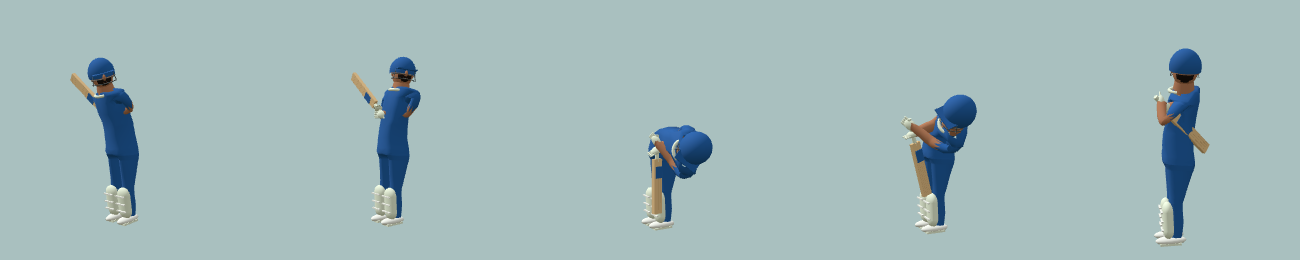
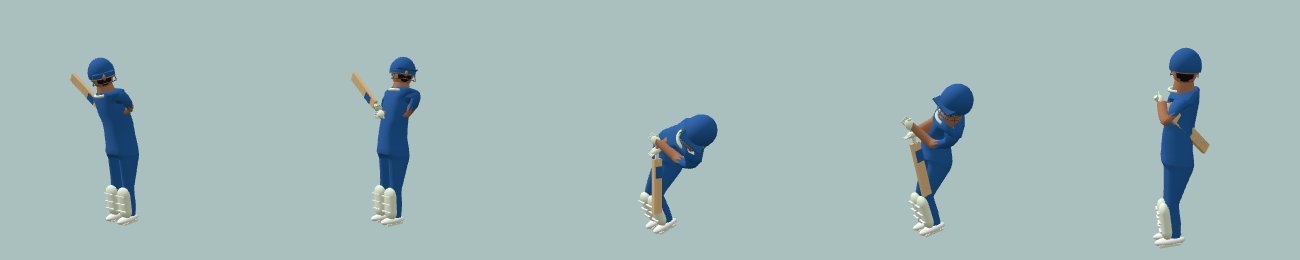
Fix keeper stumpings, ground the striker and verify a complete T20 chase

diff --git a/src/main.js b/src/main.js
@@ -267,7 +267,7 @@ function firstBatting(){return state.firstBatting||home}
 function secondBatting(){return firstBatting()===home?away:home}
 function humanBatting(){return (state.innings===0?firstBatting():secondBatting())===home}
 function setKit(){const recolor=(p,color)=>p.userData.kit.color.setHex(color);[batter,nonStriker].forEach(p=>recolor(p,teams[state.innings===0?firstBatting():secondBatting()].color));[bowler,keeper,...fielders].forEach(p=>recolor(p,teams[state.innings===0?secondBatting():firstBatting()].color))}
-function setPlayerName(p,name,number){if(era.modern){const team=Object.keys(rosterProfiles).find(t=>rosterProfiles[t].some(v=>v.name===name))||home;dressAthlete(p,name,team);}if(!p.userData.nameCanvas)return;let key=`${name}:${number}`;if(p.userData.nameKey===key)return;p.userData.nameKey=key;let c=p.userData.nameCanvas,x=c.getContext('2d');x.clearRect(0,0,c.width,c.height);x.textAlign='center';x.font='bold 58px Arial';x.lineWidth=8;x.strokeStyle='#263326';x.fillStyle='#fff';let text=name.split(' ').slice(-1)[0].toUpperCase();x.strokeText(text,256,68,480);x.fillText(text,256,68,480);x.font='bold 72px Arial';x.strokeText(String(number),256,143);x.fillText(String(number),256,143);p.userData.nameTexture.needsUpdate=true}
+function setPlayerName(p,name,number){p.userData.playerName=name;if(era.modern){const team=Object.keys(rosterProfiles).find(t=>rosterProfiles[t].some(v=>v.name===name))||home;dressAthlete(p,name,team);}if(!p.userData.nameCanvas)return;let key=`${name}:${number}`;if(p.userData.nameKey===key)return;p.userData.nameKey=key;let c=p.userData.nameCanvas,x=c.getContext('2d');x.clearRect(0,0,c.width,c.height);x.textAlign='center';x.font='bold 58px Arial';x.lineWidth=8;x.strokeStyle='#263326';x.fillStyle='#fff';let text=name.split(' ').slice(-1)[0].toUpperCase();x.strokeText(text,256,68,480);x.fillText(text,256,68,480);x.font='bold 72px Arial';x.strokeText(String(number),256,143);x.fillText(String(number),256,143);p.userData.nameTexture.needsUpdate=true}
 function lineup(){let batting=state.innings===0?firstBatting():secondBatting(),bowling=state.innings===0?secondBatting():firstBatting(),over=Math.floor(state.balls[state.innings]/6),order=bowlingOrder(squads[bowling],matchFormat(matchOvers).bowlers),bowlerIndex=order[Math.min(over,matchOvers-1)%order.length].index;return {batting,bowling,bowlerIndex,striker:squads[batting][Math.min(state.striker,10)],partner:squads[batting][Math.min(state.partner,10)],bowler:squads[bowling][bowlerIndex]}}
 function syncPlayers(){let l=lineup();setPlayerName(batter,l.striker,state.striker+1);setPlayerName(nonStriker,l.partner,state.partner+1);setPlayerName(bowler,l.bowler,l.bowlerIndex+1);if(era.modern){batter.position.z=9.8;nonStriker.position.z=-9.75;}batter.position.x=profile(l.striker).bat==='left'?.35:-.35;applyBattingStance(batter,profile(l.striker).bat,true);applyBattingStance(nonStriker,profile(l.partner).bat,false);bowler.userData.bowlHand=profile(l.bowler).bowl;resetBowler();placeNonStriker();legUmpire.position.set(profile(l.striker).bat==='left'?14.5:-14.5,0,8);facePoint(legUmpire,new THREE.Vector3(0,0,9.8));resetKeeper();let keeperPos=keeperIndex(squads[l.bowling]);setPlayerName(keeper,squads[l.bowling][keeperPos],keeperPos+1);let f=squads[l.bowling].slice(0,11).map((name,i)=>({name,i})).filter(v=>v.i!==keeperPos&&v.i!==l.bowlerIndex);fielders.forEach((p,i)=>setPlayerName(p,f[i]?.name||'Fielder',(f[i]?.i??i)+1))}
 function introducePlayers(reason,newName){let l=lineup(),incoming=newName||l.striker;state.phase='intro';state.introUntil=performance.now()+4200;renderUI();let intro=$('#player-intro');let heading=reason==='start'&&state.toss?`${state.toss.result.toUpperCase()} · ${state.toss.userWon?'YOU WIN':'COMPUTER WINS'} THE TOSS`:reason==='start'?'THE OPENING PLAYERS':reason==='innings'?'THE CHASE BEGINS':reason==='wicket'?'NEW BATTER':reason==='both'?'NEW BATTER & BOWLER':'NEW BOWLER';let lines=reason==='bowler'?`<span>COMING ON TO BOWL</span><strong>${l.bowler}</strong><small>${l.bowling} · ${profile(l.bowler).bowl.toUpperCase()}-ARM</small>`:(reason==='wicket'||reason==='both')?`<span>COMING IN TO BAT</span><strong>${incoming}</strong><small>${profile(incoming).bat.toUpperCase()}-HAND BAT · ${reason==='both'?'NEW BOWLER:':'FACING'} ${l.bowler}</small>`:`<span>AT THE CREASE</span><strong>${l.striker} &nbsp; / &nbsp; ${l.partner}</strong><small>${profile(l.striker).bat.toUpperCase()}-HAND BAT · ${l.bowler} · ${profile(l.bowler).bowl.toUpperCase()}-ARM</small>`;intro.innerHTML=`<div class="intro-kicker">${heading}</div>${lines}`;if(era.modern){
@@ -418,7 +418,11 @@ function updateReplay(now){
  f.stumps.forEach((v,i)=>applyPose(wicketParts[i],mix(v,next.stumps[i])));
  if(era.modern)r.cameraView=replayBroadcastView(f.camera,next.camera,blend);
 }
-function resolveDelivery(){let i=state.innings,a=state.anim,batting=i===0?firstBatting():secondBatting(),outcome=a.outcome||0,newBatterName=a.dismissal?squads[batting][Math.min(state.nextBatter,10)]:null;const result=scoreDelivery({runs:outcome,dismissal:a.dismissal,noBall:a.noBall,wide:a.wide,byes:a.bye,legByes:a.legBye,freeHit:a.freeHit});if(era.modern)state.freeHit=nextFreeHit(!!a.freeHit,result);benchmark?.finish(result.legal);const l=lineup();recordDelivery(state.stats[i],l.striker,l.bowler,result);if(result.legal)state.balls[i]++;state.score[i]+=outcome+result.penalty;state.extras[i]+=result.penalty+((result.extra==='WIDE'||result.byes)?outcome:0);
+function resolveDelivery(){let i=state.innings,a=state.anim,batting=i===0?firstBatting():secondBatting(),outcome=a.outcome||0,newBatterName=a.dismissal?squads[batting][Math.min(state.nextBatter,10)]:null;const result=scoreDelivery({runs:outcome,dismissal:a.dismissal,noBall:a.noBall,wide:a.wide,byes:a.bye,legByes:a.legBye,freeHit:a.freeHit});if(era.modern)state.freeHit=nextFreeHit(!!a.freeHit,result);benchmark?.finish(result.legal);const l=lineup();const dismissalInfo=era.modern&&result.dismissal?{
+   batter:a.dismissedPlayer===undefined?l.striker:squads[batting][a.dismissedPlayer],
+   fielder:(a.dismissal==='STUMPED'?keeper:a.fielder)?.userData.playerName
+ }:null;
+ recordDelivery(state.stats[i],l.striker,l.bowler,result,dismissalInfo);if(result.legal)state.balls[i]++;state.score[i]+=outcome+result.penalty;state.extras[i]+=result.penalty+((result.extra==='WIDE'||result.byes)?outcome:0);
  if(outcome%2===1)[state.striker,state.partner]=[state.partner,state.striker];
  if(a.dismissal){state.wickets[i]++;let incoming=state.nextBatter++;if(a.dismissal==='RUN OUT'&&a.dismissedPlayer===state.partner)state.partner=incoming;else state.striker=incoming}
  let overChanged=result.legal&&state.balls[i]%6===0;if(overChanged){[state.striker,state.partner]=[state.partner,state.striker];state.powerUsed=0}state.history.push(a.dismissal||result.extra||outcome);let hadWicket=!!a.dismissal;state.phase='playing';state.anim=null;resetWickets();umpire.userData.arms.forEach(arm=>arm.rotation.set(0,0,0));ball.position.set(1.5,2,-20);resetBowler();resetKeeper();batter.position.set(profile(lineup().striker).bat==='left'?.7:-.7,0,9.8);placeNonStriker();resetFielders();state.autoAt=performance.now()+3200;setCrowdMood('between');
@@ -426,7 +430,7 @@ function resolveDelivery(){let i=state.innings,a=state.anim,batting=i===0?firstB
 function inningsCard(index){
  const batting=index===0?firstBatting():secondBatting(),bowling=index===0?secondBatting():firstBatting(),innings=state.stats[index];
  const extraDetail=era.modern&&innings.extras?` (Wd ${innings.extras.wides}, Nb ${innings.extras.noBalls}, B ${innings.extras.byes}, Lb ${innings.extras.legByes})`:'';
- const batters=Object.entries(innings.batters).map(([name,b])=>`<tr><th scope="row">${name}</th><td>${b.runs}</td><td>${b.balls}</td><td>${strikeRate(b)}</td></tr>`).join('')||'<tr><td colspan="4">No balls faced</td></tr>';
+ const batters=Object.entries(innings.batters).map(([name,b])=>`<tr><th scope="row">${name}${era.modern?`<small class="dismissal-note">${b.dismissal||'not out'}</small>`:''}</th><td>${b.runs}</td><td>${b.balls}</td><td>${strikeRate(b)}</td></tr>`).join('')||'<tr><td colspan="4">No balls faced</td></tr>';
  const bowlers=Object.entries(innings.bowlers).map(([name,b])=>`<tr><th scope="row">${name}</th><td>${overs(b.balls)}</td><td>${b.runs}</td><td>${b.wickets}</td><td>${economyRate(b)}</td></tr>`).join('')||'<tr><td colspan="5">No deliveries</td></tr>';
  return `<section class="innings-card"><div class="innings-card-heading"><strong>${batting} ${state.score[index]}/${state.wickets[index]}</strong><span>${overs(state.balls[index])} overs · ${state.extras[index]} extras${extraDetail}</span></div><div class="scorecard-grid"><div><h3>${batting} batting</h3><table><thead><tr><th>BATTER</th><th>R</th><th>B</th><th>SR</th></tr></thead><tbody>${batters}</tbody></table></div><div><h3>${bowling} bowling</h3><table><thead><tr><th>BOWLER</th><th>O</th><th>R</th><th>W</th><th>ECO</th></tr></thead><tbody>${bowlers}</tbody></table></div></div></section>`;
 }
@@ -533,16 +537,24 @@ function animate(now){
   if(era.modern&&a.flight&&a.phase!=='field')modernFielding.finishActions(dt,ball.position,[a.fielder,a.receiver]);
   let swingAt=humanBatting()?a.swing:a.impact-(era.modern?.3:.22);
   const preparationAt=a.preparationAt??swingAt;
-  if(era.modern&&swingAt!==null&&t>=preparationAt&&(t-swingAt)<.75&&(!a.runActive||a.simTime-a.flightSimTime<.25)){
+  if(era.modern&&!a.regainingGround&&swingAt!==null&&t>=preparationAt&&(t-swingAt)<.75&&(!a.runActive||a.simTime-a.flightSimTime<.25)){
     const preparation=Math.min(.2,Math.max(0,swingAt-preparationAt)/.7);
     let phase=t<swingAt?(t-preparationAt)/.7:Math.max(preparation,(t-swingAt)/.7);
     if(a.struckAt!==undefined)phase=.43+(t-a.struckAt)/.7;
     if(phase>0)benchmark?.pose();
     poseBatting(batter,{phase:THREE.MathUtils.clamp(phase,0,1),shot:(humanBatting()?(a.selectedShot||state.shot):a.cpuShot)||'Straight drive',contact:a.contactPoint||new THREE.Vector3(a.lineX,ball.position.z>5?ball.position.y:.65,9.2),hand:a.battingHand,edge:a.edged});
   }
-  else if(era.modern&&a.flight&&!a.runActive&&swingAt!==null&&t-swingAt>=.75&&!a.battingRecovered){poseBattingReady(batter,{hand:a.battingHand});a.battingRecovered=true;}
+  else if(era.modern&&!a.regainingGround&&a.flight&&!a.runActive&&swingAt!==null&&t-swingAt>=.75&&!a.battingRecovered){poseBattingReady(batter,{hand:a.battingHand});a.battingRecovered=true;}
   if(!era.modern&&swingAt!==null&&(!a.flight||a.phase==='field'&&(t-swingAt)<.75)){let swingDuration=a.power?.44:.75,progress=Math.min(Math.max((t-swingAt)/swingDuration,0),1),arc=Math.sin(progress*Math.PI),stance=batter.userData.stance,shot=humanBatting()?(a.selectedShot||state.shot):a.cpuShot,power=shot==='Defend'?.5:shot==='Attacking drive'?1.45:shot==='Sweep'?1.25:1.05;if(progress>0)benchmark?.pose();let grip=batter.userData.bat,isSweep=shot==='Sweep',isHook=shot==='Hook'||shot==='Pull',isCut=shot==='Cut',isFlick=shot==='Flick',groundDrive=shot==='Straight drive';grip.position.set(stance.sign*arc*(isSweep?.55:isCut?-.32:isFlick?.36:.28),1.9+arc*(isSweep?-.55:isHook?.58:.16),.3-arc*(groundDrive?.35:.18));grip.rotation.set(isSweep?arc*1.2:isHook?-arc*1.1:isCut?arc*.65:shot==='Attacking drive'?-arc*.65:arc*.18,0,-stance.sign*(.12+arc*(isHook?1.55:power)*(a.power?1.5:1)));batter.userData.knees[0].rotation.x=.18+arc*(isSweep?.8:isHook?.12:.3);batter.userData.knees[1].rotation.x=.18+arc*(isSweep?.5:.12);if((shot==='Attacking drive'||groundDrive)&&!a.flight)batter.position.z=9.8-arc*(groundDrive?.55:.95);batter.rotation.x=.14+arc*(isSweep?.38:isHook?-.05:.08);batter.rotation.y=stance.yaw+stance.sign*arc*(isSweep?.65:isHook?-.45:isCut?-.3:.22);batter.userData.head.rotation.y=stance.headYaw-stance.sign*arc*.22;aimBattingArms(batter);if(era.modern)plantFeet(batter)}
 
+  // After a missed stroke the striker can recover while the keeper gathers.
+  if(era.modern&&a.flight&&!a.runActive&&t-a.flightSimTime>.24&&
+     ['keeper-chase','keeper-gather','stumping'].includes(a.phase)&&
+     !groundedAtCrease(runnerGroundPoints(batter),'keeper')){
+    a.regainingGround=true;
+    moveAthlete(batter,new THREE.Vector3(batter.position.x,0,9.85),dt,3.2,{facingYaw:0});
+    groundRunningBat(batter,9.3);
+  }
   if(!a.flight){
    if(era.modern)poseKeeping(keeper,ball.position,a.deliveryVelocity,dt);else{watchPoint(keeper,ball.position);keeper.userData.knees.forEach(k=>k.rotation.x=.45+.04*Math.sin(t*3));if(t>1.8+a.travel*.55){let move=THREE.MathUtils.clamp(a.lineX-keeper.position.x,-2.4*dt,2.4*dt);keeper.position.x+=move;keeperWalk(keeper,Math.abs(move),now);}}
    if(humanBatting()){let ready=t>a.impact-.48;$('#play-status').textContent=ready?'COMPUTER BOWLING • HIT NOW!':'COMPUTER BOWLING • GET READY';let cue=$('#batting-cue');if(cue){cue.hidden=false;cue.textContent=ready?'HIT NOW':'GET READY';cue.classList.toggle('hit',ready)}}
@@ -560,27 +572,32 @@ function animate(now){
   }else if(a.phase==='miss'){
    let p=Math.min((now-a.phaseAt)/600,1);ball.position.lerpVectors(a.missStart,a.missTarget,p);if(p>=1)endPlay(0,a.dismissal);
   }else if(a.phase==='keeper-chase'&&era.modern){
-   const before=ball.position.clone(),hands=[handPoint(keeper,0),handPoint(keeper,1)];
-   a.bounced=advanceBall(ball.position,a.velocity,dt,a.bounced);poseKeeping(keeper,ball.position,a.velocity,dt);
-   const wicket=sweptWicketHit(before,ball.position,'keeper');
-   const pad=a.padTouched?null:firstPadContact(before,wicket?new THREE.Vector3(wicket.x,wicket.y,wicket.z):ball.position,batter);
-   if(pad){
-     a.padTouched=true;a.wide=false;playEffect('pad');
-     const playedShot=a.swing!==null||!humanBatting();
-     const untilStumps=Math.max(0,(10.5-pad.point.z)/Math.max(.01,a.velocity.z));
-     const projected=pad.point.clone().addScaledVector(a.velocity,untilStumps);
-     projected.y-=4.905*untilStumps**2;
-     const wouldHit=sweptWicketHit(pad.point,projected,'keeper');
-     ball.position.copy(pad.point);
-     if(lbwEligible({pitchX:a.pitchX,impactX:pad.point.x,hand:a.battingHand,playedShot,wouldHit,noBall:a.noBall,freeHit:a.freeHit}))endPlay(0,'LBW');
-     else if(!playedShot)endPlay(0,null);
-     else {a.legBye=true;a.phase='field';a.velocity.multiplyScalar(.22);a.velocity.z*=-1;resetBallPhysics();message('OFF THE PAD','BALL IN PLAY');renderUI();}
-   }else if(wicket&&!a.noBall&&!a.freeHit){
-     ball.position.set(wicket.x,wicket.y,wicket.z);a.wide=false;endPlay(0,'BOWLED');
-   }else{
-   const glove=hands.findIndex((hand,i)=>sweptContact(hand,handPoint(keeper,i),before,ball.position,gloveRadius(keeper))!==null);
-   if(glove>=0){playEffect('glove');a.phase='keeper-gather';a.glove=glove;a.phaseAt=now;a.gatherFrom=ball.position.clone();ball.position.copy(handPoint(keeper,glove));message('WICKETKEEPER','CLEAN GLOVE CONTACT');}
-   else if(ball.position.z>keeper.position.z+.8){a.phase='field';a.runAllowed=true;a.runActive=true;a.runReturning=false;message(a.wide?'WIDE BALL':'BYE','PAST THE KEEPER • BATTERS RUN');renderUI();}
+   // Resolve the pad, wicket and glove in the same short steps as the ball.
+   // A low frame rate can otherwise move a fast delivery past a whole stance.
+   for(let remaining=dt;remaining>1e-7&&a.phase==='keeper-chase';){
+    const step=Math.min(1/120,remaining);remaining-=step;
+    const before=ball.position.clone(),hands=[handPoint(keeper,0),handPoint(keeper,1)];
+    a.bounced=advanceBall(ball.position,a.velocity,step,a.bounced);poseKeeping(keeper,ball.position,a.velocity,step);
+    const wicket=sweptWicketHit(before,ball.position,'keeper');
+    const pad=a.padTouched?null:firstPadContact(before,wicket?new THREE.Vector3(wicket.x,wicket.y,wicket.z):ball.position,batter);
+    if(pad){
+      a.padTouched=true;a.wide=false;playEffect('pad');
+      const playedShot=a.swing!==null||!humanBatting();
+      const untilStumps=Math.max(0,(10.5-pad.point.z)/Math.max(.01,a.velocity.z));
+      const projected=pad.point.clone().addScaledVector(a.velocity,untilStumps);
+      projected.y-=4.905*untilStumps**2;
+      const wouldHit=sweptWicketHit(pad.point,projected,'keeper');
+      ball.position.copy(pad.point);
+      if(lbwEligible({pitchX:a.pitchX,impactX:pad.point.x,hand:a.battingHand,playedShot,wouldHit,noBall:a.noBall,freeHit:a.freeHit}))endPlay(0,'LBW');
+      else if(!playedShot)endPlay(0,null);
+      else {a.legBye=true;a.phase='field';a.velocity.multiplyScalar(.22);a.velocity.z*=-1;resetBallPhysics();message('OFF THE PAD','BALL IN PLAY');renderUI();}
+    }else if(wicket&&!a.noBall&&!a.freeHit){
+      ball.position.set(wicket.x,wicket.y,wicket.z);a.wide=false;endPlay(0,'BOWLED');
+    }else{
+    const glove=hands.findIndex((hand,i)=>sweptContact(hand,handPoint(keeper,i),before,ball.position,gloveRadius(keeper))!==null);
+    if(glove>=0){playEffect('glove');a.phase='keeper-gather';a.glove=glove;a.phaseAt=now;a.gatherFrom=ball.position.clone();ball.position.copy(handPoint(keeper,glove));message('WICKETKEEPER','CLEAN GLOVE CONTACT');}
+    else if(ball.position.z>keeper.position.z+.8){a.phase='field';a.runAllowed=true;a.runActive=true;a.runReturning=false;message(a.wide?'WIDE BALL':'BYE','PAST THE KEEPER • BATTERS RUN');renderUI();}
+    }
    }
   }else if(a.phase==='keeper-chase'){
    a.bounced=advanceBall(ball.position,a.velocity,dt,a.bounced);
@@ -596,7 +613,7 @@ function animate(now){
    }else{keeper.rotation.x=-.48-.12*p;keeper.userData.knees.forEach(k=>k.rotation.x=.65);ball.position.lerpVectors(a.gatherFrom,keeperGlove(),p);if(p>=1)endPlay(0,null);}
   }else if(a.phase==='stumping'){
    a.stumpingTime+=dt;
-   const hit=touchWicketWithBall(keeper,a.glove,ball,'keeper',a.stumpingTime,dt);
+   const hit=touchWicketWithBall(keeper,a.glove??1,ball.position,'keeper',a.stumpingTime,dt);
    if(hit){const safe=groundedAtCrease(runnerGroundPoints(batter),'keeper');endPlay(0,safe?null:'STUMPED');}
    else if(a.stumpingTime>2)endPlay(0,null);
   }else if(a.phase==='field'&&era.modern){

diff --git a/src/cricket-actions.js b/src/cricket-actions.js
@@ -21,10 +21,16 @@ export function poseKeeping(p,ball,velocity,dt){
   const lowTake=ball.z>11&&ball.y<.6;
   const goal=new THREE.Vector3(clamp(predictedX,-2.4,2.4),0,lowTake?Math.max(depth,ball.z+.75):depth);
   moveAthlete(p,goal,dt,3.6,{facingYaw:Math.atan2(ball.x-p.position.x,ball.z-p.position.z)});
-  const close=ball.distanceTo(p.position)<3,target=close?ball.clone():new THREE.Vector3(goal.x,1.4*scale,12.75);
+  const gloveZ=p.position.z-.45;
+  const intercept=velocity?.z>1?clamp((gloveZ-ball.z)/velocity.z,0,.18):0;
+  const target=ball.distanceTo(p.position)<3?ball.clone():new THREE.Vector3(goal.x,1.4*scale,gloveZ);
+  if(intercept>0&&ball.z>9.2&&ball.z<gloveZ-.4){
+    target.set(ball.x+(velocity.x||0)*intercept,
+      Math.max(.15,ball.y+(velocity.y||0)*intercept-4.905*intercept**2),gloveZ);
+  }
   const crouch=clamp((2.2*scale-target.y)/(1.8*scale),0,1);
-  p.rotation.x=.025;p.userData.torso.rotation.set(.25+1.3*crouch,0,.16*crouch);
-  plantStandingFeet(p);
+  p.rotation.x=.025;p.userData.torso.rotation.set(.36+1.35*crouch,0,.16*crouch);
+  plantStandingFeet(p,12+65*crouch);
   if(p.worldToLocal(target.clone()).z>-.2){
     solveArm(p,0,target.clone().add(new THREE.Vector3(.035,0,0)));
     solveArm(p,1,target.clone().add(new THREE.Vector3(-.035,0,0)));
@@ -66,9 +72,12 @@ export function poseBatting(p,{phase,shot='Straight drive',contact,hand='right',
   const step=(defend?.45:sweep?.7:horizontal?.25:1)*load;
   p.position.z=9.8-step*.1-.45*down;p.position.y=-.12+(.12-s*(sweep?.48:.2))*load;
   p.rotation.set(.06*(1-load)-.04*load,sign*Math.PI/2-sign*(.12*load+.18*down+.32*follow),0);
-  const hinge=(sweep?1.35:.95)+clamp((1.1-contact.y),0,.8);
+  const lowBall=clamp(1.1-contact.y,0,.8);
+  const hinge=horizontal?.95+lowBall:(sweep?1.15:.82)+lowBall*.78;
   p.userData.torso.rotation.set(.25*(1-load)-.1*load,sign*(.18*load-.35*down-.18*follow),-sign*hinge*down*(1-.8*follow));
-  plantStandingFeet(p);
+  // Lower the hips through the knees as the hands come down to the ball.
+  const kneeBend=10+down*(horizontal?10:sweep?64:32+lowBall*22)*(1-.8*follow);
+  plantStandingFeet(p,kneeBend);
   const back=p.localToWorld(new THREE.Vector3(-sign*.12,2.35,.2));
   const hit=contact.clone();hit.y=clamp(hit.y,.2,1.65);
   worldQ.setFromEuler(new THREE.Euler(0,Math.PI,-sign*(sweep?1.35:horizontal?1.15:0)+follow*sign*(horizontal?1.6:.9)));

diff --git a/src/match-stats.js b/src/match-stats.js
@@ -10,7 +10,7 @@ export function bowlerStats(stats, name) {
   return stats.bowlers[name] || { balls: 0, runs: 0, wickets: 0 };
 }
 
-export function recordDelivery(stats, batter, bowler, result) {
+export function recordDelivery(stats, batter, bowler, result, dismissalInfo=null) {
   const extras=stats.extras ||= {wides:0,noBalls:0,byes:0,legByes:0};
   if(result.extra==='WIDE')extras.wides+=result.penalty+result.runs;
   if(result.extra==='NO BALL')extras.noBalls+=result.penalty;
@@ -22,6 +22,21 @@ export function recordDelivery(stats, batter, bowler, result) {
   if (result.legal) bowl.balls++;
   bowl.runs += (result.byes ? 0 : result.runs) + result.penalty;
   if (result.dismissal && result.dismissal !== 'RUN OUT') bowl.wickets++;
+  if(result.dismissal && dismissalInfo){
+    const dismissed=stats.batters[dismissalInfo.batter] ||= {runs:0,balls:0};
+    const fielder=dismissalInfo.fielder;
+    const labels={
+      'CAUGHT':fielder?`c ${fielder} b ${bowler}`:`caught b ${bowler}`,
+      'CAUGHT & BOWLED':`c & b ${bowler}`,
+      'STUMPED':`st ${fielder||'keeper'} b ${bowler}`,
+      'RUN OUT':'run out',
+      'BOWLED':`b ${bowler}`,
+      'LBW':`lbw b ${bowler}`,
+      'HIT WICKET':`hit wicket b ${bowler}`
+    };
+    dismissed.dismissal=labels[result.dismissal]||result.dismissal;
+  }
+
 }
 
 export function strikeRate(stats) {

diff --git a/src/return-controller.js b/src/return-controller.js
@@ -15,8 +15,8 @@ export function runnerGroundPoints(p){
 }
 
 // The same held-ball contact decides a return or a keeper's stumping attempt.
-export function touchWicketWithBall(receiver, hand, ball, end, elapsed, dt) {
-  const wicket=ENDS[end], before=ball.clone(), scale=athleteScale(receiver);
+export function touchWicketWithBall(receiver, hand, ballPosition, end, elapsed, dt) {
+  const wicket=ENDS[end], before=ballPosition.clone(), scale=athleteScale(receiver);
   const goal=new THREE.Vector3(.22*scale,0,wicket.wicket+wicket.direction*.7*scale);
   const facingYaw=Math.atan2(-receiver.position.x,wicket.wicket-receiver.position.z);
   moveAthlete(receiver,goal,dt,4.8,{facingYaw});
@@ -24,8 +24,8 @@ export function touchWicketWithBall(receiver, hand, ball, end, elapsed, dt) {
   receiver.userData.torso.rotation.set(1.45*Math.min(1,elapsed/.3),0,0);
   plantStandingFeet(receiver);
   solveArm(receiver,hand,new THREE.Vector3(0,CRICKET.pitchTop+.45,wicket.wicket));
-  ball.copy(handPoint(receiver,hand));
-  return sweptWicketHit(before,ball,end);
+  ballPosition.copy(handPoint(receiver,hand));
+  return sweptWicketHit(before,ballPosition,end);
 }
 
 /** Release, flight, glove possession, and wicket contact are separate events.

diff --git a/src/modern.css b/src/modern.css
@@ -73,3 +73,5 @@ body[data-era="2027"]{--modern-accent:#c3ff54;--modern-border:#ffffff17;backgrou
 [data-era="2027"] .assist-options[open]{background:#112026e8;border-radius:7px}
 
 [data-era='2027'] .skip-intro{pointer-events:auto;margin:.6rem auto 0;display:block;padding:.4rem .8rem;cursor:pointer;background:#10291f;color:white;border:1px solid #869c91;border-radius:4px}
+
+[data-era='2027'] .dismissal-note{display:block;font-size:.75em;font-weight:400;color:#b1c8be}

diff --git a/docs/cricket-2027-upgrade.md b/docs/cricket-2027-upgrade.md
@@ -74,3 +74,5 @@ Tasks 10–11 gameplay checkpoint. A mistimed reaching drive can take the outsid
 Tasks 12–15 integration checkpoint. Near actors share one stock body download and retain their own skeleton, kit, name, face and equipment. Distance thresholds retain the cheaper mesh for distant players. Combined canopy geometry and instanced steel supports replace 112 separate stadium draws with two draws. Sightscreens and textured pitch-end wear improve ball visibility. Edges, pad contact and keeper gathers have distinct sounds. Intros can be skipped, the operating system's reduced-motion preference selects a stationary wide camera, and sustained slow play lowers render resolution and crowd animation frequency. The [rules inventory](modern-rules.md) lists format behaviour and simulation limits.
 
 Release checks on desktop: the production two-over match reached innings break, tie, and rematch. Classic setup requested zero modern player assets. In separate production matches, assisted bowling completed a legal delivery in the 5-, 10- and 20-over formats. Profiling found repeated world-matrix updates among the highest CPU costs; IK and contact helpers now update only the ancestor chain of the joint being queried. Added hit-wicket sweeps, a scorecard breakdown of extras and a throw-time crossing snapshot for boundary overthrows. The source suite passed 122 tests. The 20-over end-to-end check is tracked separately from device frame-time validation.
+
+November 9 long-match verification. Fixed a stumping crash caused by passing the ball mesh instead of its position. Tested both collecting gloves, low takes and both standing depths. Keeper contact now advances in steps up to 1/120 second, and the keeper lowers the knees for a low delivery. The striker bends through a drive and can get back into the crease after a miss. The scorecard names the dismissed batter on a non-striker run-out and credits catches and stumpings. In the final accelerated production check, Australia made 72 all out in 9.1 overs; India chased it with 73/1 in 6 overs. The 20-over format reached a natural result. Both innings recorded zero byes in this scenario. This is functional evidence, not a scoring-balance sample. The five-pose image was regenerated from the stock mesh.

diff --git a/docs/delivery-baseline.md b/docs/delivery-baseline.md
@@ -22,3 +22,7 @@ The 2027 over exceeded the proposed 33 ms frame target at p95. Four of its six s
 Repeated the same desktop workload with the 698-vertex fitted body. The final stock-body over produced 1,005 frame intervals, a 16.8 ms median and a 350 ms p95. The contemporaneous classic run also slowed down (1,240 intervals, 16.7 ms median, 166.6 ms p95). Chrome logged CVDisplayLink creation failures in this headless session. These runs miss the frame-time target and are unsuitable for estimating phone performance.
 
 Blocking the asset and repeating the identical modern over produced 947 intervals, 16.7 ms median and 400 ms p95. The fallback also completed all six deliveries. The slow tail persists with either body. A hardware GPU trace remains necessary before assigning a cause or expanding the rig to all players.
+
+## November 9 follow-up
+
+The real-time Chrome capture at 880 × 693 produced 2,552 live frame intervals. Median was 16.7 ms and p95 was 83.3 ms. Adaptive rendering changed from pixel ratio 1 to 0.8 during the first delivery. The six accepted defensive shots reached their first submitted swing frames in 13.7, 16.5, 144.1, 18.8, 116.5 and 88.4 ms. Four met the 100 ms target. The p95 frame target remains open. This capture includes the revised batting pose and keeper substeps. The accelerated long-match checks use a different clock and are only for functional validation.
